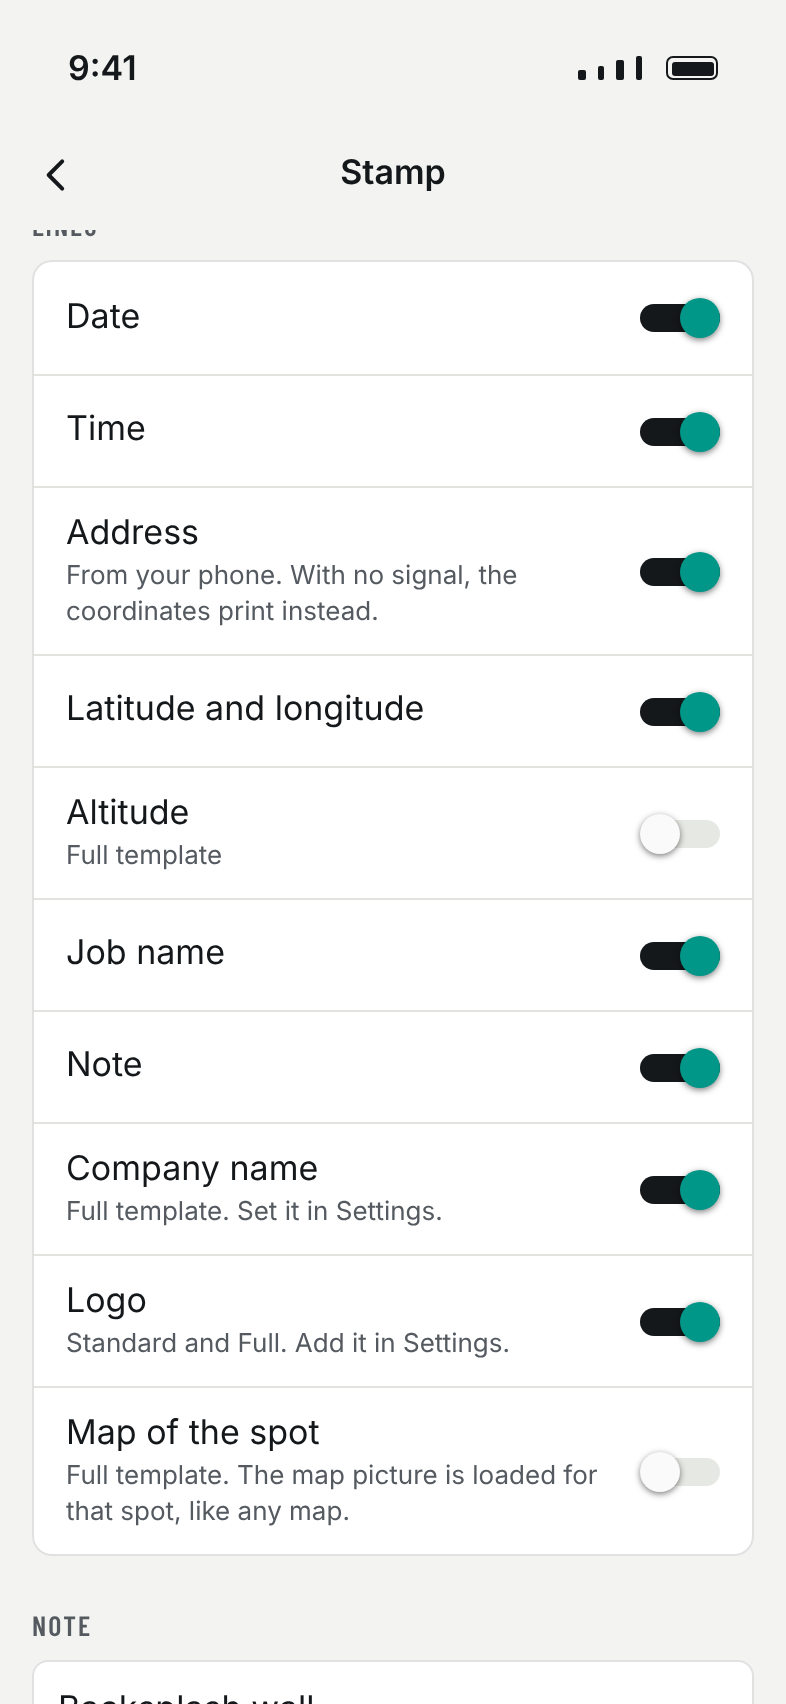
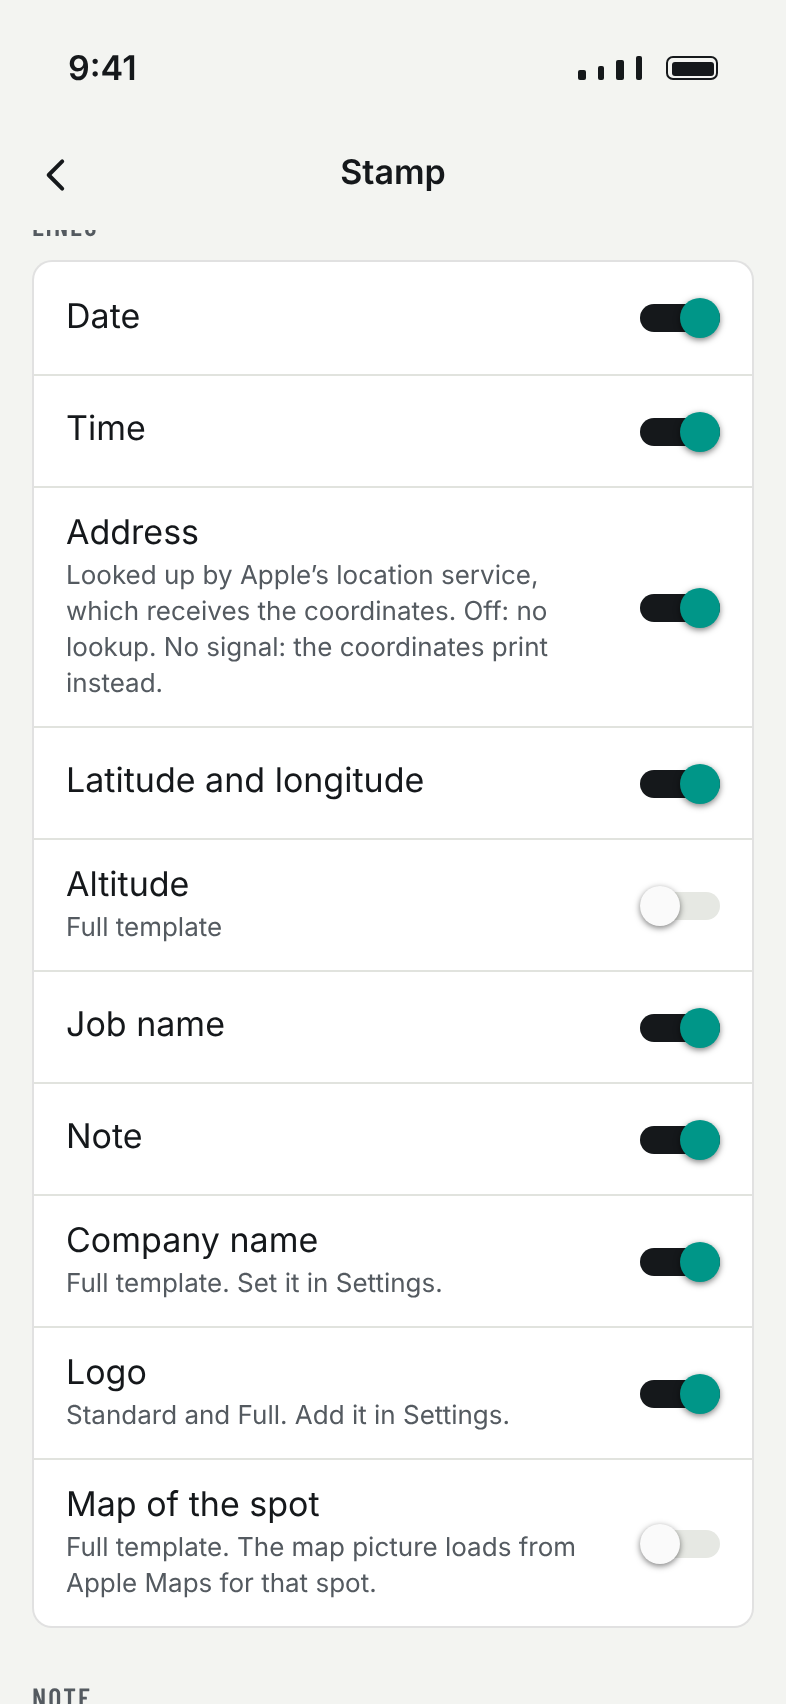
Correct the privacy wording; no address lookup with the Address line off
The app runs no server and collects nothing beyond the purchase record,
and photos and reports stay on the iPhone until shared. But the address
on the stamp is looked up with Apple's location service, so the
coordinates go to Apple, and the optional map loads from Apple Maps. The
listing, website, privacy policy, support page, usage string, onboarding,
in-app copy, review note, CLAUDE.md and README now say so; the listing's
heading is YOUR PHOTOS STAY ON YOUR PHONE. The privacy label stays
Purchases only.

With the stamp's Address line off, no lookup is made at all: needsGeocode
returns false, the camera and the stamp editor pass the setting in, and
imports skip it. tsc clean, npm test 63 passing, expo export bundles,
introspect shows the three usage strings and no entitlements.

Claude-Session: https://claude.ai/code/session_018oC8CjejnsehfA44vrwrzH

diff --git a/docs/privacy.html b/docs/privacy.html
@@ -2,7 +2,7 @@
 <html lang="en">
 <head>
 <title>Privacy Policy, Timestamp Camera</title>
-<meta name="description" content="Timestamp Camera collects one thing: your purchase history, through RevenueCat, not linked to your identity. Your photos, locations and reports stay on your iPhone.">
+<meta name="description" content="Timestamp Camera collects one thing: your purchase history, through RevenueCat, not linked to your identity. Photos and reports stay on your iPhone until you share them. Address lookup and the optional map use Apple's services.">
 <link rel="canonical" href="https://bkdigitalleads-cmyk.github.io/timestampcamera/privacy.html">
 <meta charset="utf-8">
 <meta name="viewport" content="width=device-width, initial-scale=1">
@@ -22,11 +22,16 @@
 <p>That is all. It is the only item on the app's App Store privacy label: Purchases, not linked to you, not used for tracking.</p>
 
 <h2>What stays on your iPhone</h2>
-<p>Your photos, the originals kept for correcting a stamp, the places they were taken, your jobs, punch lists, signatures, company name, logo and reports are stored only on your iPhone. There is no account and no server, and nothing is uploaded. A photo or report leaves your phone only when you share it, print it or save a copy to Photos.</p>
+<p>Your photos, the originals kept for correcting a stamp, your jobs, punch lists, signatures, company name, logo and reports are stored only on your iPhone. There is no account and no server of ours, and we receive none of it. A photo or report leaves your phone only when you share it, print it or save a copy to Photos.</p>
+
+<h2>What goes to Apple</h2>
+<p>Two features use Apple's services, and Apple receives your coordinates for them:</p>
+<p><b>The address on the stamp.</b> To print a street address, the app asks Apple's location service to look up the coordinates where you are standing (reverse geocoding). Apple receives those coordinates for that lookup. It happens only while the camera or the stamp settings are open and the stamp's Address line is on. Turn the Address line off and no lookup is made; the stamp can still print the coordinates, which come from your iPhone itself.</p>
+<p><b>The optional map picture.</b> If you turn on the map on the stamp (Pro, off unless you turn it on), the small map picture loads from Apple Maps, so Apple receives the area being shown.</p>
+<p>Apple handles this under <a href="https://www.apple.com/legal/privacy/">Apple's privacy policy</a>. We do not receive these coordinates or the results.</p>
 
 <h2>Camera, location and Photos</h2>
-<p>The camera takes your job photos. Location is used only while the app is open, never in the background, to print where each photo was taken; the address comes from your iPhone's own geocoder, which asks Apple for the street name of those coordinates, as the Maps app does. Photos access is add-only and asked for only if you turn on saving copies to Photos. The app works with any of these turned off.</p>
-<p>If you turn on the map on the stamp (off unless you turn it on), the small map picture comes from Apple Maps, which loads the map for the area shown, like any map in any app. Your photos never leave the phone for it.</p>
+<p>The camera takes your job photos. Location is used only while the app is open, never in the background, to print where each photo was taken; for the street address, see What goes to Apple above. Photos access is add-only and asked for only if you turn on saving copies to Photos. The app works with any of these turned off.</p>
 
 <h2>Contact</h2>
 <p>Questions? Email <a href="mailto:bkdigitalleads@gmail.com?subject=Timestamp%20Camera%20privacy">bkdigitalleads@gmail.com</a>.</p>

diff --git a/docs/index.html b/docs/index.html
@@ -2,7 +2,7 @@
 <html lang="en">
 <head>
 <title>Timestamp Camera: Job Photos with Date, Time and GPS Location</title>
-<meta name="description" content="Timestamp Camera prints the date, time, address and GPS coordinates on every job photo, files photos by job, pairs before and after shots, runs a punch list and sends a photo report your client can read. Works without signal. Nothing leaves the phone.">
+<meta name="description" content="Timestamp Camera prints the date, time, address and GPS coordinates on every job photo, files photos by job, pairs before and after shots, runs a punch list and sends a photo report your client can read. Works without signal. No account; your photos stay on your phone.">
 <link rel="canonical" href="https://bkdigitalleads-cmyk.github.io/timestampcamera/">
 <meta charset="utf-8">
 <meta name="viewport" content="width=device-width, initial-scale=1">
@@ -26,7 +26,7 @@
   "alternateName": ["Timestamp Camera", "GPS Map Camera, Time Stamp"],
   "operatingSystem": "iOS",
   "applicationCategory": "PhotographyApplication",
-  "description": "An iPhone camera for people who photograph work. It prints the date, time, street address and GPS coordinates into every photo, files photos by job and day, pairs before and after shots, keeps a punch list with photos, and builds a PDF photo report for the client. Works without signal. No account; photos and locations stay on the phone.",
+  "description": "An iPhone camera for people who photograph work. It prints the date, time, street address and GPS coordinates into every photo, files photos by job and day, pairs before and after shots, keeps a punch list with photos, and builds a PDF photo report for the client. Works without signal. No account and no server; photos and reports stay on the phone until the person shares them.",
   "url": "https://bkdigitalleads-cmyk.github.io/timestampcamera/",
   "downloadUrl": "https://apps.apple.com/app/id6838074080",
   "image": "https://bkdigitalleads-cmyk.github.io/timestampcamera/icon-512.png",
@@ -71,8 +71,8 @@
 </div>
 <p class="small">Sample job and names are made up.</p>
 
-<div class="label">Private</div>
-<p>No account and no server. Your photos, locations and reports stay on your iPhone until you share them. Location is used only while the app is open. See the <a href="privacy.html">privacy policy</a>.</p>
+<div class="label">Your photos stay on your phone</div>
+<p>No account and no server of ours. Photos and reports stay on your iPhone until you share them. Location is used only while the app is open. The street address on the stamp is looked up by your iPhone's location service, which receives the coordinates for that; turn the Address line off and no lookup is made. See the <a href="privacy.html">privacy policy</a>.</p>
 <p class="small">The stamp prints your iPhone's own clock and location at the moment you take the photo.</p>
 
 <footer><a href="./">Timestamp Camera</a><a href="support.html">Support</a><a href="privacy.html">Privacy</a><br>Made in NYC by Brian Kershner.</footer>

diff --git a/src/camera/useLocation.ts b/src/camera/useLocation.ts
@@ -2,9 +2,11 @@
  * The live place for the stamp, while the camera is on screen. Location is
  * "when in use" only: the watch starts when the camera shows and stops when
  * it goes away, and nothing runs in the background. The address comes from
- * the phone's own geocoder (expo-location's reverseGeocodeAsync), throttled
- * by stamp/place.ts. Denied or no fix: `place` is null and the stamp prints
- * the date and time only.
+ * the phone's geocoder (expo-location's reverseGeocodeAsync, which asks
+ * Apple's location service and so sends it the coordinates), throttled by
+ * stamp/place.ts, and only while `wantAddress` is true: with the stamp's
+ * Address line off, no lookup is made at all. Denied or no fix: `place` is
+ * null and the stamp prints the date and time only.
  */
 import { useCallback, useEffect, useRef, useState } from 'react';
 import { AppState } from 'react-native';
@@ -15,12 +17,14 @@ import type { Place } from '../stamp/content';
 
 export type LocationAccess = 'unknown' | 'granted' | 'denied' | 'ask';
 
-export function useLocation(active: boolean): { place: Place | null; fix: Fix | null; access: LocationAccess; request: () => Promise<void> } {
+export function useLocation(active: boolean, wantAddress: boolean): { place: Place | null; fix: Fix | null; access: LocationAccess; request: () => Promise<void> } {
   const [access, setAccess] = useState<LocationAccess>('unknown');
   const [fix, setFix] = useState<Fix | null>(null);
   const [looked, setLooked] = useState<Looked | null>(null);
   const lookedRef = useRef<Looked | null>(null);
   const asking = useRef(false);
+  const want = useRef(wantAddress);
+  want.current = wantAddress;
 
   const check = useCallback(async () => {
     try {
@@ -49,7 +53,7 @@ export function useLocation(active: boolean): { place: Place | null; fix: Fix | 
   }, []);
 
   const geocode = useCallback(async (f: Fix) => {
-    if (asking.current || !needsGeocode(lookedRef.current, f, Date.now())) return;
+    if (asking.current || !needsGeocode(lookedRef.current, f, Date.now(), want.current)) return;
     asking.current = true;
     let address: string | null = null;
     try {
@@ -93,8 +97,14 @@ export function useLocation(active: boolean): { place: Place | null; fix: Fix | 
     };
   }, [active, access, geocode]);
 
+  // Turning the Address line on with a fix already in hand looks it up straight away.
+  useEffect(() => {
+    if (wantAddress && fix) geocode(fix);
+    // eslint-disable-next-line react-hooks/exhaustive-deps
+  }, [wantAddress]);
+
   const now = Date.now();
   const current = access === 'granted' ? freshFix(fix, now) : null;
-  const place: Place | null = current ? { lat: current.lat, lng: current.lng, altitude: current.altitude, address: addressFor(looked, current) } : null;
+  const place: Place | null = current ? { lat: current.lat, lng: current.lng, altitude: current.altitude, address: wantAddress ? addressFor(looked, current) : null } : null;
   return { place, fix: current, access, request };
 }

diff --git a/src/screens/Camera.tsx b/src/screens/Camera.tsx
@@ -43,7 +43,7 @@ export default function Camera({ active, mode, onExitMode, onOpenJob, onOpenJobs
   const app = useApp();
   const data = useData();
   const [perm, requestPerm] = useCameraPermissions();
-  const loc = useLocation(active);
+  const loc = useLocation(active, data.stamp.show.address);
   const cam = useRef<CameraView>(null);
   const [ready, setReady] = useState(false);
   const [flash, setFlash] = useState<Flash>('off');
@@ -270,7 +270,7 @@ export default function Camera({ active, mode, onExitMode, onOpenJob, onOpenJobs
 
       <Sheet theme={theme} visible={locSheet} onClose={() => setLocSheet(false)} title="Location is off">
         <Text style={[type.body, { color: theme.ink }]}>Photos still save with the date and time. With location on, the stamp also prints the address and the coordinates of where you stood.</Text>
-        <Hint theme={theme} style={{ marginTop: space.s, marginBottom: space.l }}>Your location stays on this phone. It is only used while the camera is open.</Hint>
+        <Hint theme={theme} style={{ marginTop: space.s, marginBottom: space.l }}>It is only used while the camera is open. The street address is looked up by Apple’s location service, which receives the coordinates; turn the Address line off in Stamp and no lookup is made.</Hint>
         <GoButton
           theme={theme}
           label={loc.access === 'ask' ? 'Turn on location' : 'Open Settings'}
@@ -290,7 +290,7 @@ function NoCamera({ theme, canAsk, onAsk }: { theme: Theme; canAsk: boolean; onA
     <View style={styles.noCam}>
       <Glyph name="camera" size={44} color={theme.chromeSoft} />
       <Text style={[type.heading, { color: theme.chromeInk, textAlign: 'center', marginTop: space.m }]}>The camera is off for this app.</Text>
-      <Text style={[type.body, { color: theme.chromeSoft, textAlign: 'center', marginTop: space.s, marginBottom: space.xl }]}>It takes your job photos. Nothing leaves your phone.</Text>
+      <Text style={[type.body, { color: theme.chromeSoft, textAlign: 'center', marginTop: space.s, marginBottom: space.xl }]}>It takes your job photos. Photos stay on your phone until you share them.</Text>
       <GoButton theme={theme} label={canAsk ? 'Allow camera' : 'Open Settings'} onPress={() => (canAsk ? onAsk() : Linking.openSettings().catch(() => {}))} />
     </View>
   );

diff --git a/src/screens/StampEditor.tsx b/src/screens/StampEditor.tsx
@@ -24,14 +24,14 @@ const CORNER_LABEL: Record<Corner, string> = { topLeft: 'Top left', topRight: 'T
 const LINES: { key: keyof StampShow; label: string; sub?: string; pro?: ProFeature }[] = [
   { key: 'date', label: 'Date' },
   { key: 'time', label: 'Time' },
-  { key: 'address', label: 'Address', sub: 'From your phone. With no signal, the coordinates print instead.' },
+  { key: 'address', label: 'Address', sub: 'Looked up by Apple’s location service, which receives the coordinates. Off: no lookup. No signal: the coordinates print instead.' },
   { key: 'coords', label: 'Latitude and longitude' },
   { key: 'altitude', label: 'Altitude', sub: 'Full template' },
   { key: 'job', label: 'Job name' },
   { key: 'note', label: 'Note' },
   { key: 'company', label: 'Company name', sub: 'Full template. Set it in Settings.', pro: 'company' },
   { key: 'logo', label: 'Logo', sub: 'Standard and Full. Add it in Settings.', pro: 'logo' },
-  { key: 'map', label: 'Map of the spot', sub: 'Full template. The map picture is loaded for that spot, like any map.', pro: 'map' },
+  { key: 'map', label: 'Map of the spot', sub: 'Full template. The map picture loads from Apple Maps for that spot.', pro: 'map' },
 ];
 
 export default function StampEditor({ onBack }: { onBack: () => void }) {
@@ -40,7 +40,7 @@ export default function StampEditor({ onBack }: { onBack: () => void }) {
   const app = useApp();
   const data = useData();
   const [s, setS] = useState<StampSettings>(data.stamp);
-  const loc = useLocation(true);
+  const loc = useLocation(true, s.show.address);
   const font = useStampFont();
   const [now, setNow] = useState(Date.now());
   useEffect(() => {

diff --git a/src/stamp/place.ts b/src/stamp/place.ts
@@ -3,8 +3,10 @@
  * imports, checked by `npm test`.
  *
  * The phone's position streams in while the camera is open. The address
- * comes from the device geocoder, which needs signal and can be slow, so it
- * is asked again only after moving or after a while, and an address is
+ * comes from the device geocoder (Apple's location service, which receives
+ * the coordinates for the lookup), needs signal and can be slow, so it is
+ * asked only while the Address line is on, and again only after moving or
+ * after a while, and an address is
  * used only while the phone is still near where it was looked up. The
  * shutter never waits: what the live stamp shows at that moment prints.
  */
@@ -35,8 +37,14 @@ export function distanceMeters(a: { lat: number; lng: number }, b: { lat: number
   return 2 * R * Math.asin(Math.min(1, Math.sqrt(s)));
 }
 
-/** Ask the geocoder again: never asked, moved 25 m, or 2 minutes since a failed ask (or 10 since a good one). */
-export function needsGeocode(last: Looked | null, fix: Fix, now: number): boolean {
+/**
+ * Ask the geocoder again: never asked, moved 25 m, or 2 minutes since a
+ * failed ask (or 10 since a good one). Never when the stamp's Address line
+ * is off: the lookup sends the coordinates to Apple's location service, so
+ * it is made only when the address will print.
+ */
+export function needsGeocode(last: Looked | null, fix: Fix, now: number, wantAddress = true): boolean {
+  if (!wantAddress) return false;
   if (!last) return true;
   if (distanceMeters(last, fix) > 25) return true;
   return now - last.at > (last.address ? 10 * 60000 : 2 * 60000);

diff --git a/src/capture.ts b/src/capture.ts
@@ -3,7 +3,8 @@
  * the original (inside the app only, so a stamp can be corrected later),
  * the stamp is burned into a full-size copy by src/stamp/burn.ts with
  * native Skia, and a small copy is made for lists. The record goes in the
- * job; a copy goes to Photos when saving is on. Nothing leaves the phone.
+ * job; a copy goes to Photos when saving is on. Photos stay on the phone
+ * until the person shares them.
  */
 import { Asset } from 'expo-asset';
 import { File } from 'expo-file-system';
@@ -156,11 +157,15 @@ export async function restamp(p: Photo, s: StampJob, note: string): Promise<Phot
   return { ...p, note, width: done.width, height: done.height, stamp: done.stamp };
 }
 
-/** The place an imported photo stamps with: its own GPS, with an address from the phone's geocoder when it answers within 4 seconds. */
-export async function importedPlace(lat: number | null, lng: number | null, altitude: number | null): Promise<Place | null> {
+/**
+ * The place an imported photo stamps with: its own GPS, with an address from
+ * the phone's geocoder when it answers within 4 seconds. With the Address
+ * line off, no lookup is made (the coordinates would go to Apple for it).
+ */
+export async function importedPlace(lat: number | null, lng: number | null, altitude: number | null, wantAddress: boolean): Promise<Place | null> {
   if (lat == null || lng == null) return null;
   let address: string | null = null;
-  try {
+  if (wantAddress) try {
     const Location = await import('expo-location');
     const perm = await Location.getForegroundPermissionsAsync();
     if (perm.granted) {

diff --git a/src/screens/Intro.tsx b/src/screens/Intro.tsx
@@ -160,7 +160,7 @@ export function Permissions({ onDone }: { onDone: () => void }) {
         theme={theme}
         glyph="camera"
         title="The camera takes your job photos."
-        line="It opens straight to the camera. Photos stay on this phone."
+        line="It opens straight to the camera. Photos stay on this phone until you share them."
         button="Allow camera"
         waiting={waiting}
         onPress={() => run(() => ExpoCamera.requestCameraPermissionsAsync(), () => setStep('location'))}
@@ -173,7 +173,7 @@ export function Permissions({ onDone }: { onDone: () => void }) {
         theme={theme}
         glyph="pin"
         title="Location prints where each photo was taken."
-        line="Only while the app is open, never in the background, and it stays on this phone. Without it, photos show the date and time."
+        line="Only while the app is open, never in the background. The street address is looked up by Apple’s location service, which receives the coordinates. Without location, photos show the date and time."
         button="Allow location"
         waiting={waiting}
         onPress={() => run(() => Location.requestForegroundPermissionsAsync(), () => setStep('photos'))}

diff --git a/src/screens/Settings.tsx b/src/screens/Settings.tsx
@@ -150,7 +150,7 @@ export default function Settings({ onBack, onStamp, onReplayOnboarding }: { onBa
           <FieldLabel theme={theme}>About</FieldLabel>
           <Card theme={theme} style={styles.about}>
             <Text style={[type.body, { color: theme.ink }]}>Job photos with the date, time and place printed on them, filed by job.</Text>
-            <Text style={[type.small, { color: theme.inkSoft }]}>No account. Nothing is uploaded: your photos, locations and reports stay on this iPhone until you share them. The stamp prints your phone’s own clock and location.</Text>
+            <Text style={[type.small, { color: theme.inkSoft }]}>No account and no server of ours. Photos and reports stay on this iPhone until you share them. The street address on the stamp is looked up by Apple’s location service, which receives the coordinates; with the Address line off, no lookup is made. The stamp prints your phone’s own clock and location.</Text>
             <Text style={[type.small, { color: theme.inkFaint, paddingVertical: space.s }]} onPress={versionTap} accessibilityRole="text">
               Version {version}
             </Text>

diff --git a/docs/support.html b/docs/support.html
@@ -46,7 +46,7 @@
   <dt>How do I cancel?</dt>
   <dd>In your iPhone's Settings, tap your name, then Subscriptions. Cancel at least a day before the trial or period ends.</dd>
   <dt>Is anything uploaded?</dt>
-  <dd>No. There is no account and no server. See the <a href="privacy.html">privacy policy</a>.</dd>
+  <dd>Not to us: there is no account and no server of ours, and photos and reports stay on your iPhone until you share them. The street address on the stamp is looked up by Apple's location service, which receives the coordinates for that; turn the Address line off in Stamp and no lookup is made. The optional map picture loads from Apple Maps. See the <a href="privacy.html">privacy policy</a>.</dd>
 </dl>
 <footer><a href="./">Timestamp Camera</a><a href="support.html">Support</a><a href="privacy.html">Privacy</a><br>Made in NYC by Brian Kershner.</footer>
 </div>

diff --git a/src/camera/MapThumb.tsx b/src/camera/MapThumb.tsx
@@ -6,9 +6,9 @@
  * last good picture, or prints without a map.
  *
  * The map is Apple Maps (react-native-maps' default on iOS, no key). Like
- * any map in any app, Apple's servers send the map for the area shown; the
- * photos and the stamp never leave the phone. Settings says so beside the
- * switch.
+ * any map in any app, Apple receives the area shown and sends back the map
+ * for it; the photos stay on the phone. The stamp editor says so beside the
+ * switch, and the privacy policy says it plainly.
  */
 import React, { useEffect, useRef } from 'react';
 import { View } from 'react-native';

diff --git a/src/screens/Job.tsx b/src/screens/Job.tsx
@@ -89,7 +89,7 @@ export default function Job({ id, onBack, onPhoto, onTakeAfter, onShootItem, onR
       setImporting(`Stamping ${done + 1} of ${res.assets.length}`);
       try {
         const meta = importMeta(readJpeg(readUri(a.uri)), a.exif ?? null);
-        const place = await importedPlace(meta.lat, meta.lng, meta.altitude);
+        const place = await importedPlace(meta.lat, meta.lng, meta.altitude, data.stamp.show.address);
         const p = await makePhoto({
           uri: a.uri,
           jobId: id,
